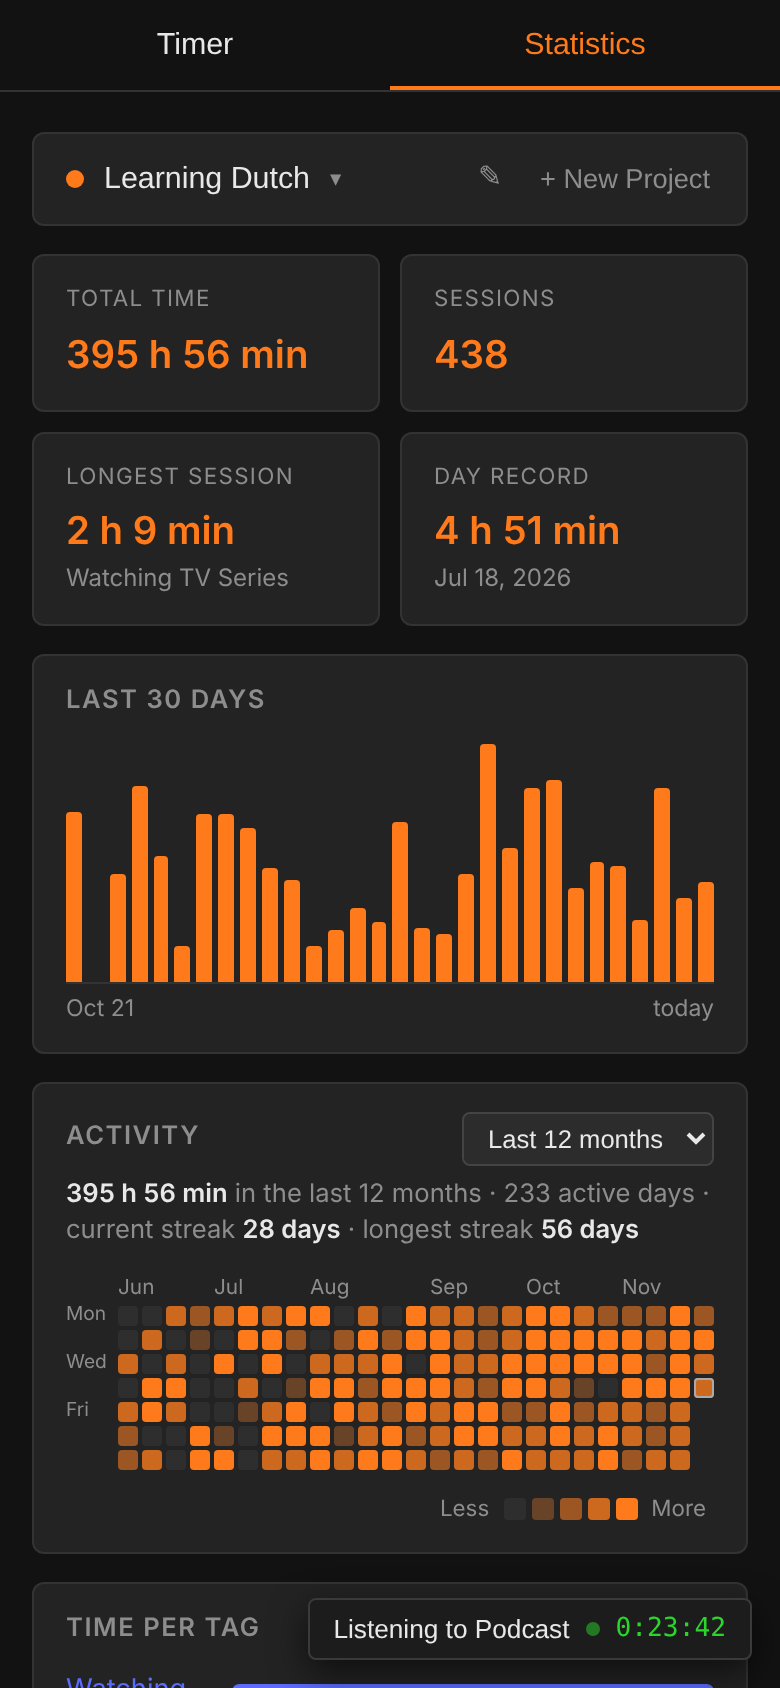
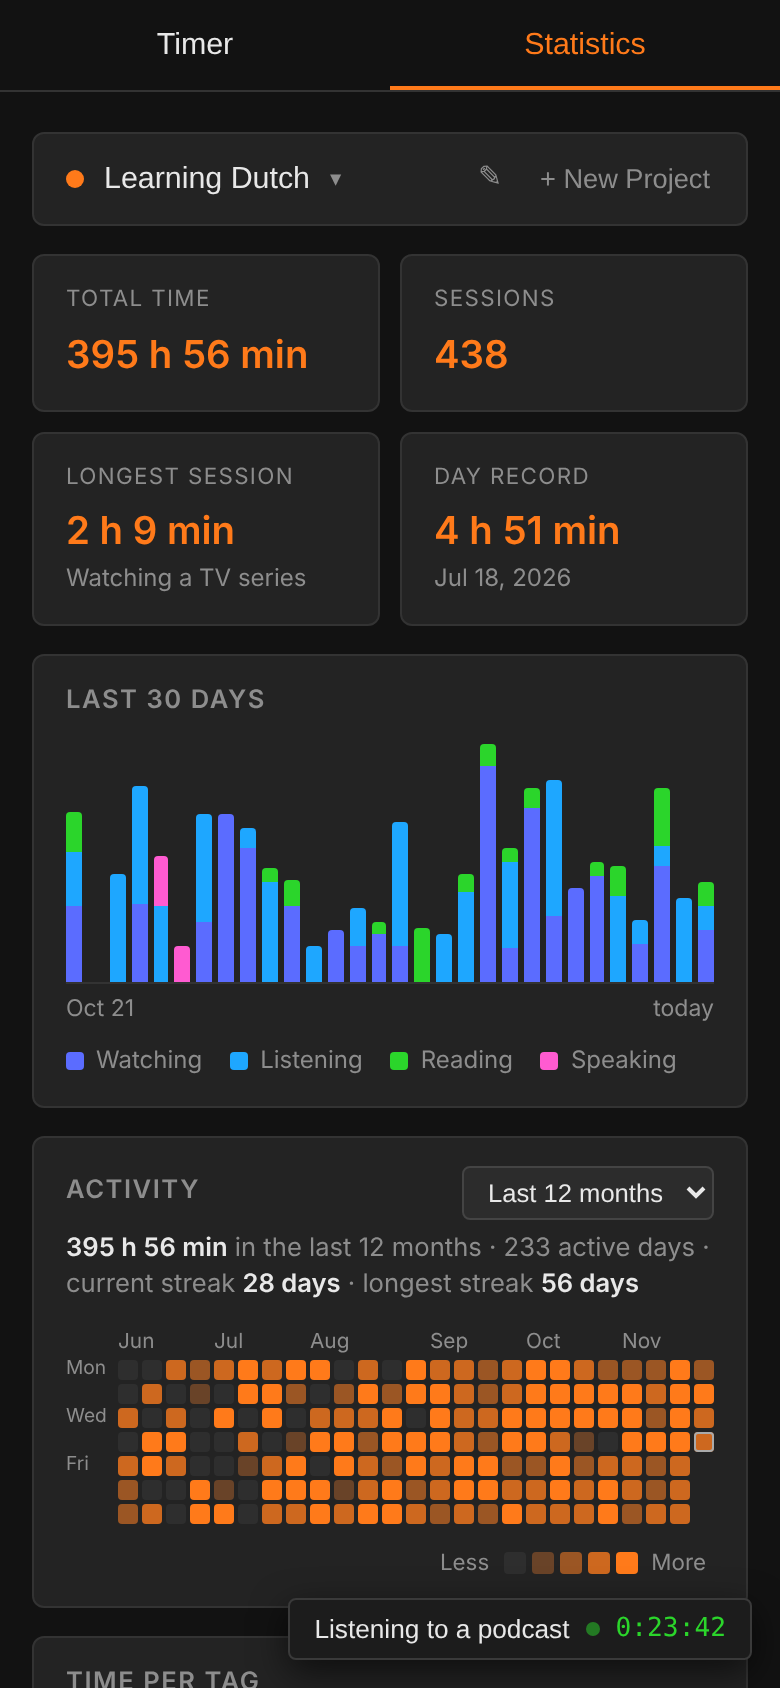
Natural task names, per-tag wording and colour-coded 30-day chart
- Auto-filled names use articles where they fit: "Reading a book",
  "Listening to an audiobook", "Reading the news"; brand names like
  YouTube or Netflix keep their capitals.
- Content tags get an article setting (automatic, a/an, the, none) and
  activity tags a joining word (e.g. "to", "about"), with live
  previews in the tag editor. Tag order no longer depends on tap order.
- The last-30-days bars are stacked by activity colour, with a legend
  and a per-activity breakdown in the tooltip.
- Refresh screenshots and banner; app version 1.4.

diff --git a/index.js b/index.js
@@ -102,20 +102,60 @@ const pillsHtml = (tagIds) =>
     .map((t) => `<span class="pill" style="--c:${t.color}">${esc(t.name)}</span>`).join("");
 
 // ---------- auto-filled task names ----------
-// "Watching" + "YouTube" -> "Watching YouTube"; "Listening" + "Audiobook" -> "Listening to Audiobook";
-// "Watching" + "Mining" + "Anime" -> "Watching & Mining Anime".
+// "Watching" + "YouTube"   -> "Watching YouTube"
+// "Reading" + "Book"       -> "Reading a book"
+// "Listening" + "Audiobook" -> "Listening to an audiobook"
+// "Reading" + "News"       -> "Reading the news"
+// "Watching" + "Mining" + "TV Series" -> "Watching & mining a TV series"
 const joinNames = (names) =>
   names.length <= 1 ? names.join("") : names.slice(0, -1).join(", ") + " & " + names[names.length - 1];
 
+// Which article a content tag gets when its setting is "auto". Anything not listed is
+// treated as a countable thing and gets "a"/"an".
+const AUTO_ARTICLES = {
+  news: "the", radio: "the",
+  youtube: "none", netflix: "none", twitch: "none", tv: "none", anime: "none", manga: "none",
+  music: "none", comics: "none", subtitles: "none", flashcards: "none", anki: "none", duolingo: "none",
+};
+const TAG_ARTICLES = [["auto", "Automatic"], ["a", "a / an"], ["the", "the"], ["none", "none"]];
+
+// Word placed after an activity when its "joining word" is left on automatic.
+const AUTO_JOINERS = { listening: "to", talking: "to", "talking to": "", chatting: "with" };
+const joinerFor = (tag) =>
+  tag.joiner != null ? tag.joiner.trim() : AUTO_JOINERS[tag.name.trim().toLowerCase()] || "";
+
+function articleFor(tag) {
+  const setting = tag.article || "auto";
+  return setting === "auto" ? AUTO_ARTICLES[tag.name.trim().toLowerCase()] || "a" : setting;
+}
+
+// Lower-case ordinary capitalised words ("Book" -> "book") but keep names and
+// acronyms with other capitals as they are ("YouTube", "TV").
+const softLower = (text) => text.replace(/\b[A-Z][a-z]+\b/g, (w) => w.toLowerCase());
+
+// Common words that take no article but still read better in lower case.
+const LOWERCASE_NOUNS = new Set(["anime", "manga", "music", "comics", "subtitles", "flashcards", "series", "shows", "films", "movies", "games"]);
+
+function withArticle(tag) {
+  const name = tag.name.trim();
+  const art = articleFor(tag);
+  // With no article it is probably a name (Netflix, Duolingo): keep its capitals.
+  if (art === "none") return LOWERCASE_NOUNS.has(name.toLowerCase()) ? name.toLowerCase() : name;
+  const noun = softLower(name);
+  if (art === "the") return "the " + noun;
+  return (/^[aeiou]/i.test(noun) ? "an " : "a ") + noun;
+}
+
 function autoTitle(tagIds) {
-  const tags = tagIds.map(tagById).filter(Boolean);
-  const acts = tags.filter(isActivity).map((t) => t.name);
-  const things = tags.filter((t) => !isActivity(t)).map((t) => t.name);
-  if (!acts.length) return joinNames(things);
+  const order = state.tags; // keep tags in picker order regardless of click order
+  const tags = tagIds.map(tagById).filter(Boolean).sort((a, b) => byKind(a, b) || order.indexOf(a) - order.indexOf(b));
+  const actTags = tags.filter(isActivity);
+  const acts = actTags.map((t, i) => (i === 0 ? t.name : softLower(t.name)));
+  const things = tags.filter((t) => !isActivity(t));
+  if (!acts.length) return joinNames(things.map((t) => t.name));
   if (!things.length) return joinNames(acts);
-  const lastAct = acts[acts.length - 1].toLowerCase();
-  const joiner = lastAct === "listening" ? " to " : " ";
-  return joinNames(acts) + joiner + joinNames(things);
+  const joiner = joinerFor(actTags[actTags.length - 1]);
+  return joinNames(acts) + " " + (joiner ? joiner + " " : "") + joinNames(things.map(withArticle));
 }
 
 // Fill a title box from the chosen tags, but only if it is empty or still holds
@@ -285,15 +325,39 @@ function renderStats() {
 
   renderHeatmap(perDay);
 
-  // Last 30 days chart
+  // Last 30 days chart, each bar stacked by activity (or content tag if it has no activity)
   const today = startOfDay(Date.now());
+  const order = projectTags(); // activities first, in the same order as the tag picker
+  const groupOf = (e) => {
+    const tags = (e.tagIds || []).map(tagById).filter(Boolean).sort((a, b) => order.indexOf(a) - order.indexOf(b));
+    return tags.find(isActivity) || tags[0] || null; // null = untagged
+  };
+  const perDayGroup = new Map(); // day -> Map(tag|null -> ms)
+  for (const e of spans) {
+    const k = startOfDay(e.start);
+    if (!perDayGroup.has(k)) perDayGroup.set(k, new Map());
+    const g = perDayGroup.get(k), tag = groupOf(e);
+    g.set(tag, (g.get(tag) || 0) + e.ms);
+  }
+  const rank = (tag) => (tag ? order.indexOf(tag) : order.length);
   const days = [];
-  for (let i = 29; i >= 0; i--) { const d = addDays(today, -i); days.push({ d, ms: perDay.get(d) || 0 }); }
+  for (let i = 29; i >= 0; i--) { const d = addDays(today, -i); days.push({ d, ms: perDay.get(d) || 0, groups: perDayGroup.get(d) || new Map() }); }
   const max = Math.max(...days.map((x) => x.ms), 1);
+  const used = new Set();
   $("chart").innerHTML = days
-    .map(({ d, ms }) => `<div class="chart-col" data-tip="${fmtShortDate(d)} — ${ms ? fmtDur(ms) : "nothing"}"><div class="chart-bar" style="height:${ms ? Math.max(2, (ms / max) * 100) : 0}%"></div></div>`)
+    .map(({ d, ms, groups }) => {
+      const parts = [...groups].sort((a, b) => rank(a[0]) - rank(b[0]));
+      parts.forEach(([tag]) => used.add(tag));
+      const segs = parts.map(([tag, t]) =>
+        `<div class="seg" style="flex:${t};background:${tag ? tag.color : "#777"}"></div>`).join("");
+      const detail = parts.map(([tag, t]) => `${tag ? tag.name : "No tag"} ${fmtDur(t)}`).join(" · ");
+      const tip = `${fmtShortDate(d)} — ${ms ? fmtDur(ms) : "nothing"}${parts.length > 1 ? "\n" + detail : ""}`;
+      return `<div class="chart-col" data-tip="${esc(tip)}"><div class="chart-bar" style="height:${ms ? Math.max(2, (ms / max) * 100) : 0}%">${segs}</div></div>`;
+    })
     .join("");
   $("chart-from").textContent = fmtShortDate(days[0].d);
+  $("chart-legend").innerHTML = [...used].sort((a, b) => rank(a) - rank(b))
+    .map((tag) => `<span><i style="background:${tag ? tag.color : "#777"}"></i>${tag ? esc(tag.name) : "No tag"}</span>`).join("");
 
   // Time per tag
   const perTag = new Map();
@@ -476,14 +540,42 @@ function editTag(t) {
                <label><input type="radio" name="kind" value="content" ${t?.kind === "activity" ? "" : "checked"}> Content <span class="muted">(YouTube, Audiobook…)</span></label>
              </div>
            </div>
+           <label class="field" id="m-joiner-field">Word after it in task names
+             <input id="m-joiner" class="input" maxlength="20" placeholder="Automatic" value="${esc(t?.joiner ?? "")}">
+             <span class="muted" id="m-joiner-preview"></span>
+           </label>
+           <label class="field" id="m-article-field">Word before it in task names
+             <select id="m-article" class="input">${TAG_ARTICLES.map(([v, l]) =>
+               `<option value="${v}" ${(t?.article || "auto") === v ? "selected" : ""}>${l}</option>`).join("")}</select>
+             <span class="muted" id="m-article-preview"></span>
+           </label>
            <div class="field">Color ${swatchHtml(t?.color || COLORS[Math.floor(Math.random() * COLORS.length)])}</div>`,
-    onOpen: wireSwatches,
+    onOpen: () => {
+      wireSwatches();
+      // Live preview of how the tag reads in a task name; only content tags get an article.
+      const update = () => {
+        const kind = $("m-kind").querySelector("input:checked").value;
+        $("m-article-field").classList.toggle("hidden", kind === "activity");
+        $("m-joiner-field").classList.toggle("hidden", kind !== "activity");
+        const name = $("m-name").value.trim();
+        $("m-article-preview").textContent = `e.g. "Reading ${withArticle({ name: name || "Book", article: $("m-article").value })}"`;
+        const typed = $("m-joiner").value.trim();
+        const j = joinerFor({ name: name || "Watching", joiner: typed || null });
+        $("m-joiner-preview").textContent =
+          `e.g. "${name || "Watching"}${j ? " " + j : ""} a podcast"` + (typed ? "" : " — leave empty for automatic");
+      };
+      ["m-name", "m-article", "m-kind", "m-joiner"].forEach((id) => $(id).addEventListener("input", update));
+      $("m-kind").addEventListener("change", update);
+      update();
+    },
     onOk: () => {
       const name = $("m-name").value.trim();
       if (!name) return false;
       const kind = $("m-kind").querySelector("input:checked").value;
-      if (t) Object.assign(t, { name, kind, color: pickedColor() });
-      else state.tags.push({ id: uid(), projectId: state.currentProjectId, name, kind, color: pickedColor() });
+      const article = $("m-article").value;
+      const joiner = $("m-joiner").value.trim() || null; // empty = automatic
+      if (t) Object.assign(t, { name, kind, article, joiner, color: pickedColor() });
+      else state.tags.push({ id: uid(), projectId: state.currentProjectId, name, kind, article, joiner, color: pickedColor() });
     },
     onDelete: t ? () => {
       if (!confirm(`Delete tag "${t.name}"? It will be removed from all sessions.`)) return false;
@@ -643,8 +735,9 @@ $("chart").addEventListener("mousemove", (ev) => {
   const tip = $("chart-tip");
   if (!col) return tip.classList.add("hidden");
   tip.textContent = col.dataset.tip;
-  tip.style.left = `${col.offsetLeft + col.offsetWidth / 2}px`;
-  tip.classList.remove("hidden");
+  tip.classList.remove("hidden"); // must be visible before its width can be measured
+  const half = tip.offsetWidth / 2, wrapW = $("chart").offsetWidth;
+  tip.style.left = `${Math.min(Math.max(col.offsetLeft + col.offsetWidth / 2, half), wrapW - half)}px`;
 });
 $("chart").addEventListener("mouseleave", () => $("chart-tip").classList.add("hidden"));
 

diff --git a/styles.css b/styles.css
@@ -146,8 +146,12 @@ h2 { margin: 0 0 12px; font-size: .8rem; font-weight: 600; color: var(--muted); 
 .chart-wrap { position: relative; }
 .chart { display: flex; align-items: flex-end; gap: 3px; height: 120px; border-bottom: 1px solid var(--border); }
 .chart-col { flex: 1; height: 100%; display: flex; align-items: flex-end; cursor: default; }
-.chart-bar { width: 100%; background: var(--accent); border-radius: 2px 2px 0 0; }
-.chart-col:hover .chart-bar { background: color-mix(in srgb, var(--accent) 70%, #fff); }
+.chart-bar { width: 100%; display: flex; flex-direction: column-reverse; border-radius: 2px 2px 0 0; overflow: hidden; }
+.chart-bar .seg { min-height: 1px; }
+.chart-col:hover .chart-bar { filter: brightness(1.25); }
+.chart-legend { display: flex; flex-wrap: wrap; gap: 4px 14px; margin-top: 10px; font-size: .75rem; color: var(--muted); }
+.chart-legend i { display: inline-block; width: 9px; height: 9px; border-radius: 2px; margin-right: 6px; vertical-align: -1px; }
+#chart-tip { white-space: pre; text-align: center; }
 .chart-axis { display: flex; justify-content: space-between; font-size: .72rem; color: var(--muted); margin-top: 4px; }
 .chart-tip { position: absolute; top: -6px; transform: translate(-50%, -100%); background: #3a3a3a; border: 1px solid #555; color: var(--text); font-size: .75rem; padding: 3px 8px; border-radius: 4px; white-space: nowrap; pointer-events: none; }
 

diff --git a/index.html b/index.html
@@ -78,6 +78,7 @@
             <div id="chart-tip" class="chart-tip hidden"></div>
           </div>
           <div class="chart-axis"><span id="chart-from"></span><span>today</span></div>
+          <div id="chart-legend" class="chart-legend"></div>
         </section>
 
         <section class="card">

diff --git a/README.md b/README.md
@@ -23,14 +23,16 @@ Android app, works offline, and keeps all data on your device.
   - **Activities** (Watching, Listening, Reading, Mining…) are listed first.
   - **Content** (YouTube, Podcast, Audiobook, Book…) follows.
 
-  Picking tags fills in the task name, e.g. *Watching YouTube* or *Listening to Audiobook*.
-  Text you type yourself is never overwritten.
+  Picking tags builds the task name from them: *Watching YouTube*, *Reading a book*,
+  *Listening to an audiobook*, *Reading the news*. Each content tag can take "a/an", "the"
+  or no article, and each activity can have a word after it ("to", "about"…). Sensible
+  defaults are chosen automatically. Text you type yourself is never overwritten.
 - **Timer** with pause and resume, editing, and a floating mini timer. It keeps counting
   while the app is closed.
 - **History** grouped by day, with continue, edit and delete, plus manual entries.
 - **Statistics:**
   - Total time, sessions, longest session and day record.
-  - A 30-day chart and time per tag.
+  - A 30-day chart, colour-coded by activity, and time per tag.
   - A GitHub-style **activity heatmap** for the last 12 months or any year, with streaks.
 - **CSV export** of a project.
 
